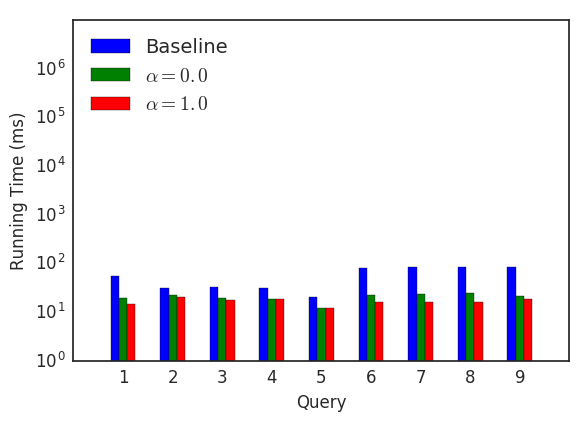
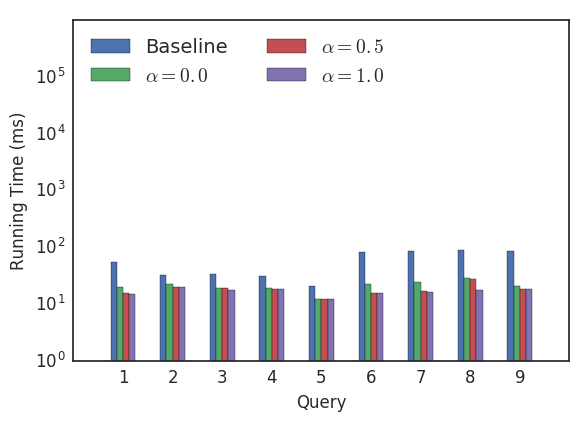
Update figures for a=0.5 and addl predicate in q8

diff --git a/paper/tables/perf_summary.tex b/paper/tables/perf_summary.tex
@@ -1,19 +1,20 @@
 {
-  \setlength{\tabcolsep}{1.4em} % for the horizontal padding
-\begin{tabular}{cSSSS}
+  %\setlength{\tabcolsep}{1.4em} % for the horizontal padding
+\begin{tabular}{cSSSSSS}
 \toprule
-      & \multicolumn{2}{c}{SMAPE}   & \multicolumn{2}{c}{Count Fraction} \\
-Query & {$\alpha = 0$} & {$\alpha = 1$} & {$\alpha = 0$} & {$\alpha = 1$}    \\
+      & \multicolumn{3}{c}{SMAPE}   & \multicolumn{3}{c}{Count Fraction} \\
+    Query & {$\alpha = 0$} & {$\alpha = 0.5$} & {$\alpha = 1$} & {$\alpha = 0$} & {$\alpha = 0.5$} & {$\alpha = 1$}  \\
 \midrule
-    1 & 0.39         & 1.24         & 1.00         & 0.88            \\
-    2 & 1.49         & 2.41         & 1.00         & 0.33            \\
-    3 & 1.05         & 2.14         & 1.00         & 0.57            \\
-    4 & 0.22         & 0.30         & 0.96         & 0.80            \\
-    5 & 0.02         & 0.20         & 1.01         & 0.94            \\
-    6 & 1.04         & 4.43         & 0.79         & 0.64            \\
-    7 & 0.03         & 0.40         & 1.00         & 0.65            \\
-    8 & 6.41         & 19.99        & 1.00         & 0.22            \\
-    9 & 2.03         & 2.49         & 1.00         & 0.84            \\
+    1     & 0.39           & 1.19             & 1.24    & 1.00 &     0.89 &     0.88 \\
+    2     & 1.49           & 1.65             & 2.41    & 1.00 &     0.99 &     0.33 \\
+    3     & 1.05           & 1.05             & 2.14    & 1.00 &     1.00 &     0.57 \\
+    4     & 0.22           & 0.30             & 0.30    & 0.96 &     0.89 &     0.80 \\
+    5     & 0.02           & 0.19             & 0.20    & 1.01 &     0.94 &     0.94 \\
+    6     & 1.04           & 0.88             & 4.43    & 0.79 &     0.80 &     0.64 \\
+    7     & 0.03           & 0.43             & 0.40    & 1.00 &     0.66 &     0.65 \\
+    8     & 7.97           & 7.97             & 19.99   & 1.00 &     1.00 &     0.22 \\
+    9     & 2.03           & 2.17             & 2.49    & 1.00 &     0.85 &     0.84 \\
+
 \bottomrule
 \end{tabular}
 }
